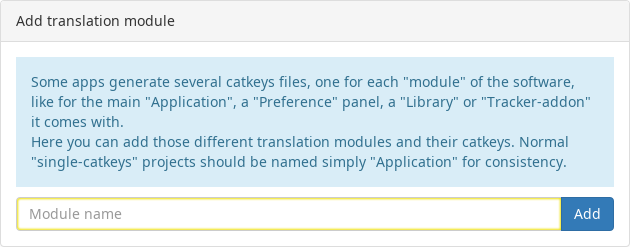
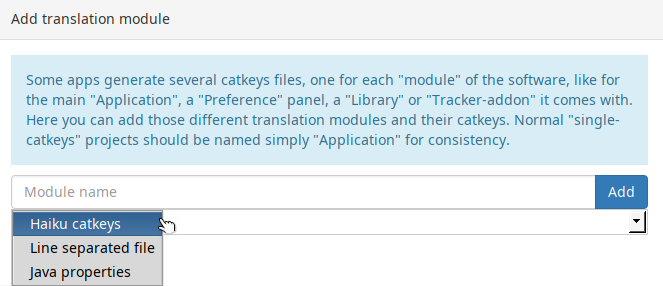
Update help pages
Shoehorn in the additional feature of translating Java properties
and line-separated files.

Rename "MIME type" to "App signature", which I feel is more
commonly used (see makefile_engine)

diff --git a/app/Http/Controllers/FilesController.php b/app/Http/Controllers/FilesController.php
@@ -322,7 +322,7 @@ class FilesController extends Controller
         $catkeys = $file->export($lang);
         if($catkeys === null)
             return \Redirect::route('projects.show', [$file->project_id])
-                ->with('message', 'Checksum or MIME type are missing.');
+                ->with('message', 'Checksum or app signature are missing.');
 
         // prepare file
         $basename = basename($file->path);
